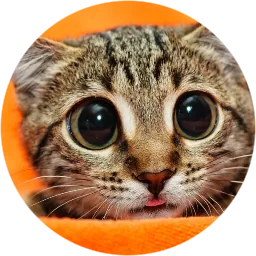
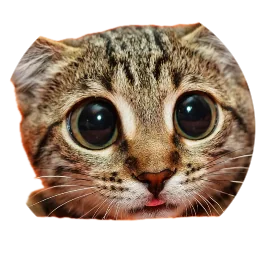
Memories: cut-out cats on light family-color backgrounds; new Happy, Scared and Chill cats

Changed region(s): [[0.125, 0.8438, 0.875, 1.0], [0.1562, 0.0, 0.7812, 0.1875], [0.0, 0.3125, 0.1875, 0.8125]]

diff --git a/memories.html b/memories.html
@@ -804,8 +804,8 @@
     return img;
   });
 
-  // Draws one marble centred at (0, 0) with radius pr. Cat marbles: the photo inside the glass,
-  // softened and tinted, darker toward the rim. Drawn marbles: a glowing glass body with the face inside.
+  // Draws one marble centred at (0, 0) with radius pr. Cat marbles: the cut-out cat inside the glass
+  // on a light wash of its family colour, a little deeper toward the rim. Drawn marbles: a glowing glass body with the face inside.
   // Both finish with a rim light and glints.
   function paintMarble(g, idx, pr, glow) {
     const m = MOODS[idx], rgb = hexRgb(m.hex), img = catImages[idx];
@@ -835,7 +835,11 @@
     } else {
     g.save();
     g.beginPath(); g.arc(0, 0, pr, 0, Math.PI * 2); g.clip();
-    g.fillStyle = mix(rgb, [255, 255, 255], 0.55);
+    // light family colour behind the cut-out cat: palest in the middle, a little deeper at the rim
+    const back = g.createRadialGradient(0, -pr * 0.1, pr * 0.1, 0, 0, pr);
+    back.addColorStop(0, mix(rgb, [255, 255, 255], 0.82));
+    back.addColorStop(1, mix(rgb, [255, 255, 255], 0.55));
+    g.fillStyle = back;
     g.fillRect(-pr, -pr, pr * 2, pr * 2);
     if (img.complete && img.naturalWidth) {
       if ('filter' in g) g.filter = 'blur(' + Math.max(0.25, pr * 0.012).toFixed(2) + 'px)';
@@ -843,15 +847,6 @@
       g.drawImage(img, -pr, -pr, pr * 2, pr * 2);
       if ('filter' in g) g.filter = 'none';
     }
-    // tint: a wash of the feeling's colour over the memory
-    g.globalAlpha = 0.13;
-    g.globalCompositeOperation = 'multiply';
-    g.fillStyle = m.hex;
-    g.fillRect(-pr, -pr, pr * 2, pr * 2);
-    g.globalCompositeOperation = 'screen';
-    g.globalAlpha = 0.06;
-    g.fillRect(-pr, -pr, pr * 2, pr * 2);
-    g.globalCompositeOperation = 'source-over';
     // glass depth: clear in the middle, coloured and darker toward the edge
     g.globalAlpha = 1;
     const depth = g.createRadialGradient(-pr * 0.1, -pr * 0.15, pr * 0.55, 0, 0, pr);

diff --git a/CLAUDE.md b/CLAUDE.md
@@ -23,7 +23,7 @@ To go back to a version, restore its files onto `main` with a new commit (`git c
 
 ## Memories experiment (`memories.html`)
 
-Glowing cat-memory marbles instead of sand. Sixteen cat balls on offer, coloured by the mood meter (pleasant + calm green, pleasant + energetic yellow, unpleasant + calm blue, unpleasant + energetic red; each ball its own shade within its family): a main row of five (`PICKER`: Happy, Sad, Scared, Confused, Calm) plus a More button that opens a scrollable side panel with the rest (`MORE_GROUPS`, grouped under colour headings: yellow Excited, Curious, Silly, Hungry; green Chill, Focused; blue Bored; red Angry, Nervous, Worried, Upset). When adding a cat, pick its quadrant and a new shade in that family. Hungry uses a still frame of the tongue-out cat; Playful (id 13) used the same cat and is left out of the panel but kept in `MOODS` so old drops still draw. `MOODS` index is the colour id stored in drops, so never reorder or remove entries; add new ones at the end. Cat photos live in `images/cat-*.webp` (face cropped, bulged like seen through glass, cut to a circle; tint, edge shading and glints are drawn in `paintMarble`). Calm uses the sleeping kitten because the user's preferred calm photos were watermarked. Drawn faces (`faceSvg`) remain available for any marble without a photo. Never use watermarked stock photos (Adobe Stock, Shutterstock, etc.), product photos, or professional photos of trademarked celebrity pets (e.g. Grumpy Cat) on the public site. Same modes (`memories.html#play`, `#display`, `#teacher-CODE`). Same sync design: ordered drop log, commit horizon, checkpoints and rollback. Marble settling (`settle`) must stay deterministic like sand placement: seeded `rng32`, plain arithmetic and `Math.sqrt` only. Each new marble falls, bounces and rolls until it rests (`roll`). Merging (`place`, `findMerge`): when a marble comes to rest touching a same-kind marble, and a marble with their combined area (r = sqrt(r1^2 + r2^2), agar.io style) fits at their area-weighted centre or up to one radius above it without overlapping anything, the two are replaced by that bigger marble, which then rolls to rest. Marbles left unsupported then drop into the gap (`supported`: floor, two marbles below, or one below plus a wall), and anything that comes to rest is checked for merges again, so chains can happen. Balls have their own radius `r` and memory count `n`; the counter shows total memories. New drops have radius 18. Each live drop records a frame timeline (`makeTimeline`) for animation; replays don't animate. Checkpoints deep-copy balls because settling mutates them.
+Glowing cat-memory marbles instead of sand. Sixteen cat balls on offer, coloured by the mood meter (pleasant + calm green, pleasant + energetic yellow, unpleasant + calm blue, unpleasant + energetic red; each ball its own shade within its family): a main row of five (`PICKER`: Happy, Sad, Scared, Confused, Calm) plus a More button that opens a scrollable side panel with the rest (`MORE_GROUPS`, grouped under colour headings: yellow Excited, Curious, Silly, Hungry; green Chill, Focused; blue Bored; red Angry, Nervous, Worried, Upset). When adding a cat, pick its quadrant and a new shade in that family. Hungry uses a still frame of the tongue-out cat; Playful (id 13) used the same cat and is left out of the panel but kept in `MOODS` so old drops still draw. `MOODS` index is the colour id stored in drops, so never reorder or remove entries; add new ones at the end. Cat photos live in `images/cat-*.webp`: the cat is cut out of its photo with macOS Vision subject lifting (transparent background), then the face is cropped, bulged like seen through glass and cut to a circle. `paintMarble` fills behind the cat with a light wash of the ball's colour and adds edge shading and glints; the cat itself is not tinted. Calm uses the sleeping kitten because the user's preferred calm photos were watermarked. Drawn faces (`faceSvg`) remain available for any marble without a photo. Never use watermarked stock photos (Adobe Stock, Shutterstock, etc.), product photos, or professional photos of trademarked celebrity pets (e.g. Grumpy Cat) on the public site. Same modes (`memories.html#play`, `#display`, `#teacher-CODE`). Same sync design: ordered drop log, commit horizon, checkpoints and rollback. Marble settling (`settle`) must stay deterministic like sand placement: seeded `rng32`, plain arithmetic and `Math.sqrt` only. Each new marble falls, bounces and rolls until it rests (`roll`). Merging (`place`, `findMerge`): when a marble comes to rest touching a same-kind marble, and a marble with their combined area (r = sqrt(r1^2 + r2^2), agar.io style) fits at their area-weighted centre or up to one radius above it without overlapping anything, the two are replaced by that bigger marble, which then rolls to rest. Marbles left unsupported then drop into the gap (`supported`: floor, two marbles below, or one below plus a wall), and anything that comes to rest is checked for merges again, so chains can happen. Balls have their own radius `r` and memory count `n`; the counter shows total memories. New drops have radius 18. Each live drop records a frame timeline (`makeTimeline`) for animation; replays don't animate. Checkpoints deep-copy balls because settling mutates them.
 
 Its drops live in Firebase at `pours/c<gen>` (the earlier nine-colour marble test used `pours/m<gen>`) and its screens report modes `mplay`/`mdisplay`, so it works under the existing rules. Both pages share `state/gen`, so Start fresh on either page clears both.
 
